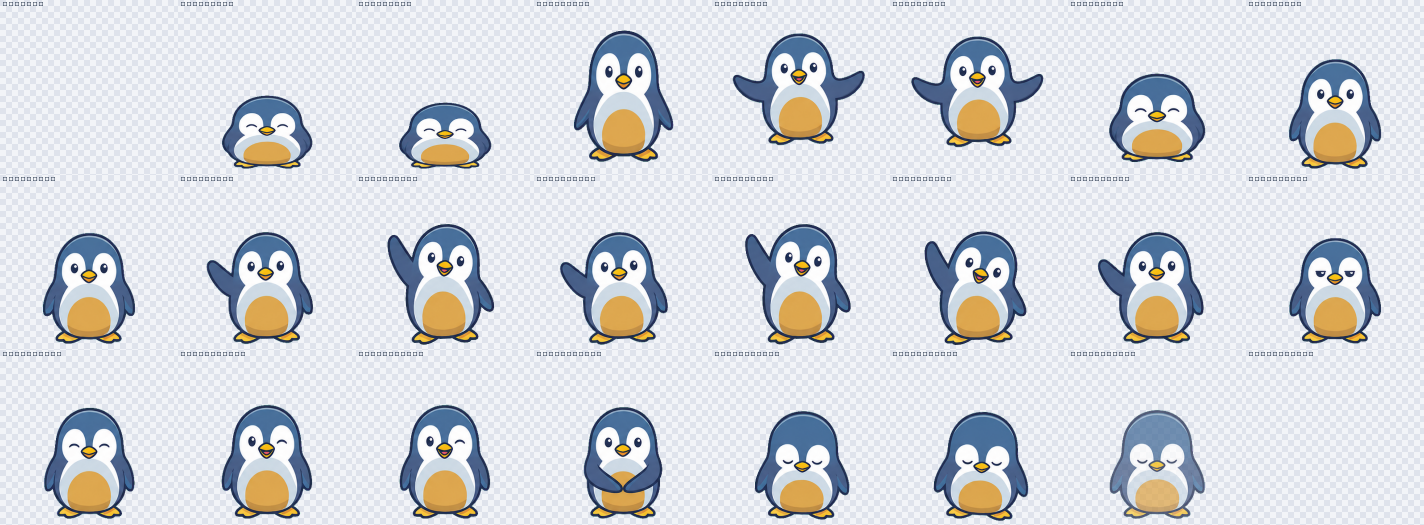
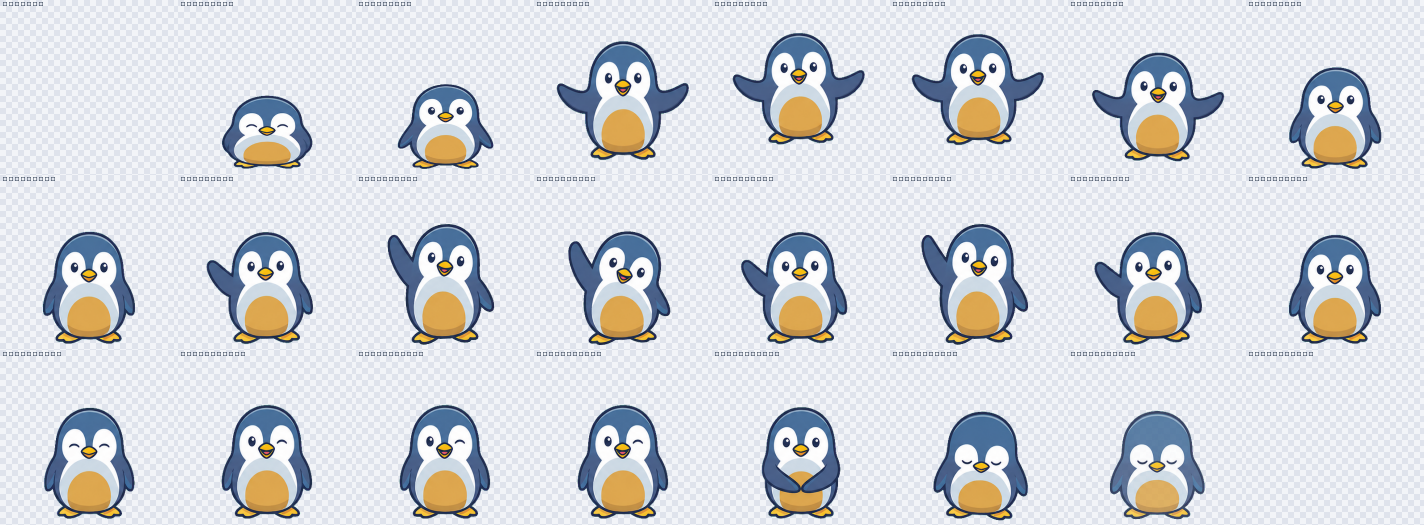
tune(intro): adopt timing B - apex hold, readable wink, calmer wave
GIF로 A/B를 비교해 B를 채택했다. 공중 정점에 60ms 머물러 체공감을 주고, 윙크를 130→250ms 로 늘려 표정이 읽히게 하고, 손 흔들기를 컷당 90~110ms 로 완화했다. 늘어난 시간은 마무리 구간에서 회수해 총 2410ms. 컷 길이는 정지 시트로 판단할 수 없어 design_preview/render_intro_gif.py 로 실제 속도 GIF를 만들어 정했고, 세 값이 되돌아가지 않도록 테스트를 걸었다.

diff --git a/design_preview/render_intro_gif.py b/design_preview/render_intro_gif.py
@@ -1,0 +1,99 @@
+"""인트로를 애니메이션 GIF로 렌더링해 실제 속도로 확인한다.
+
+    py design_preview/render_intro_gif.py
+
+`design_preview/intro_preview.gif` 가 생성된다(git에는 넣지 않는다).
+정지 컷 시트(`verify_intro.py`)로는 컷 길이를 볼 수 없어서, 타이밍을 손볼 때는
+이 GIF로 판단한다.
+
+GIF는 알파가 1비트라 배경을 밝은 회색으로 합성한다. 실제 앱에서는 투명 창에
+그려지므로 배경 없이 캐릭터만 보인다.
+"""
+
+import io
+import os
+import sys
+from pathlib import Path
+
+os.environ.setdefault("QT_QPA_PLATFORM", "offscreen")
+
+ROOT = Path(__file__).resolve().parents[1]
+sys.path.insert(0, str(ROOT))
+
+from PIL import Image  # noqa: E402
+from PyQt6.QtCore import QBuffer, QByteArray, Qt  # noqa: E402
+from PyQt6.QtGui import QColor, QPixmap  # noqa: E402
+from PyQt6.QtWidgets import QApplication  # noqa: E402
+
+import intro_animation  # noqa: E402
+
+STEP_MS = 40           # 25fps. GIF 지연은 10ms 단위로 양자화된다.
+BACKGROUND = "#eef1f6"
+TAIL_MS = 240          # 끝난 뒤 잠깐 빈 화면을 남겨 반복 경계를 알아보게 한다
+SCALE = 0.7            # 파일 크기를 줄이기 위한 표시 축소
+PALETTE_COLORS = 64    # 평면 벡터 그림이라 64색으로도 티가 안 난다
+
+
+def to_pil(pixmap: QPixmap) -> Image.Image:
+    if SCALE != 1.0:
+        pixmap = pixmap.scaled(
+            int(pixmap.width() * SCALE), int(pixmap.height() * SCALE),
+            Qt.AspectRatioMode.KeepAspectRatio,
+            Qt.TransformationMode.SmoothTransformation)
+    data = QByteArray()
+    buffer = QBuffer(data)
+    buffer.open(QBuffer.OpenModeFlag.WriteOnly)
+    pixmap.save(buffer, "PNG")
+    buffer.close()
+    return Image.open(io.BytesIO(bytes(data))).convert("RGB")
+
+
+def render_sequence(timeline):
+    """타임라인을 STEP_MS 간격으로 렌더링해 PIL 프레임 목록을 만든다."""
+    splash = intro_animation.create_intro(timeline=timeline)
+    if splash is None:
+        raise SystemExit("인트로 자원을 찾지 못했습니다. py tools/build_intro_frames.py 먼저.")
+    total = intro_animation.total_duration_ms(timeline)
+    frames = []
+    for elapsed in range(0, total + TAIL_MS + 1, STEP_MS):
+        splash._state = intro_animation.state_at(min(elapsed, total), timeline)
+        tile = QPixmap(splash.size())
+        tile.fill(QColor(BACKGROUND))
+        splash.render(tile)
+        frames.append(to_pil(tile))
+    splash.close()
+    return frames, total
+
+
+def save_gif(path: Path, frames):
+    # 팔레트는 여러 시점을 이어 붙인 이미지에서 뽑는다. 첫 프레임은 등장 전
+    # 빈 화면이라 그것만으로 팔레트를 만들면 배경색 하나로 뭉개진다.
+    stride = max(1, len(frames) // 8)
+    samples = frames[::stride] or [frames[0]]
+    width, height = frames[0].size
+    strip = Image.new("RGB", (width * len(samples), height))
+    for index, frame in enumerate(samples):
+        strip.paste(frame, (index * width, 0))
+    palette = strip.quantize(colors=PALETTE_COLORS, method=Image.Quantize.MEDIANCUT)
+
+    converted = [frame.quantize(palette=palette, dither=Image.Dither.NONE)
+                 for frame in frames]
+    converted[0].save(str(path), save_all=True, append_images=converted[1:],
+                      duration=STEP_MS, loop=0, optimize=True)
+    print(f"저장: {path} ({path.stat().st_size / 1024:.0f}KB)")
+
+
+def main():
+    # QApplication 참조를 붙잡아 둬야 한다. 임시 객체로 두면 GC 되어
+    # 렌더링 중에 프로세스가 그대로 죽는다.
+    app = QApplication.instance() or QApplication([])
+    frames, total = render_sequence(intro_animation.TIMELINE)
+    save_gif(ROOT / "design_preview" / "intro_preview.gif", frames)
+    print(f"총 {total}ms, 컷 {len(intro_animation.TIMELINE)}개, "
+          f"{len(frames)}프레임({STEP_MS}ms 간격)")
+    app.processEvents()
+    return 0
+
+
+if __name__ == "__main__":
+    sys.exit(main())

diff --git a/intro_animation.py b/intro_animation.py
@@ -63,46 +63,53 @@ def _step(frame, duration, scale=(1.0, 1.0), squash=(1.0, 1.0), dy=(0.0, 0.0),
 #   1 웅크림 · 2 도약(날개 아래) · 3 날개 활짝 · 4 중립 · 5 날개 45°
 #   6 날개 최대 + 벌린 입 · 7 날개 최대 + 손끝 꺾임 · 8 반쯤 감은 눈
 #   9 감은 눈 · 10 윙크 · 11 날개 모음 · 12 인사
+#
+# 컷 길이는 A/B 비교(`design_preview/render_intro_gif.py`) 후 고른 값이다.
+#   * 공중 정점에 60ms 머문다. 상승/하강만 두면 정점이 스쳐 체공감이 없다.
+#   * 윙크는 250ms 유지한다. 130ms 로는 표정이 읽히기 전에 지나간다.
+#   * 손 흔들기는 컷당 90~110ms. 80ms 이하는 급하게 보인다.
 TIMELINE = (
     # 등장: 웅크린 자세로 나타나 더 깊게 눌린다(도약 예비 동작).
-    _step(1, 110, scale=(0.92, 0.94), squash=(0.90, 0.84), opacity=(0.0, 1.0),
+    _step(1, 100, scale=(0.92, 0.94), squash=(0.90, 0.84), opacity=(0.0, 1.0),
           easing="out_quad"),
     _step(1, 110, scale=(0.94, 0.96), squash=(0.84, 0.74), easing="in_out_quad"),
     # 도약: 몸이 늘어나며 떠오른다.
-    _step(2, 110, scale=(0.96, 1.0), squash=(0.74, 1.12), dy=(0.0, -0.06),
+    _step(2, 100, scale=(0.96, 1.0), squash=(0.74, 1.12), dy=(0.0, -0.06),
           easing="out_quad"),
-    # 공중: 날개를 펼치고 정점까지 올라간 뒤 떨어진다.
-    _step(3, 130, squash=(1.08, 1.0), dy=(-0.06, -0.20), rot=(0.0, -2.0),
+    # 공중: 날개를 펼치고 정점까지 올라가 잠깐 머문 뒤 떨어진다.
+    _step(3, 150, squash=(1.08, 1.0), dy=(-0.06, -0.20), rot=(0.0, -2.0),
           easing="out_cubic"),
-    _step(3, 120, squash=(1.0, 0.98), dy=(-0.20, -0.06), rot=(-2.0, 1.0),
+    _step(3, 60, dy=(-0.20, -0.19), rot=(-2.0, -1.0), easing="linear"),
+    _step(3, 110, squash=(1.0, 0.98), dy=(-0.19, -0.06), rot=(-1.0, 1.0),
           easing="in_quad"),
     # 착지: 눌렸다가 반동으로 살짝 늘어난 뒤 정착한다.
-    _step(1, 90, squash=(0.98, 0.80), dy=(-0.06, 0.0), easing="in_quad"),
+    _step(1, 80, squash=(0.98, 0.80), dy=(-0.06, 0.0), easing="in_quad"),
     _step(4, 110, squash=(0.80, 1.06), rot=(1.0, 0.0), easing="out_cubic"),
-    _step(4, 80, squash=(1.06, 1.0), easing="out_quad"),
+    _step(4, 60, squash=(1.06, 1.0), easing="out_quad"),
     # 손 흔들기 1회차: 45° → 최대 → 손끝 꺾임 → 내려옴.
     _step(5, 90, rot=(0.0, -1.5), easing="out_quad"),
-    _step(6, 90, rot=(-1.5, -3.0), easing="out_quad"),
-    _step(7, 80, rot=(-3.0, -3.5), easing="linear"),
-    _step(5, 80, rot=(-3.5, -1.0), easing="out_quad"),
+    _step(6, 110, rot=(-1.5, -3.0), easing="out_quad"),
+    _step(7, 90, rot=(-3.0, -3.5), easing="linear"),
+    _step(5, 90, rot=(-3.5, -1.0), easing="out_quad"),
     # 2회차.
-    _step(6, 90, rot=(-1.0, -3.0), easing="out_quad"),
-    _step(7, 80, rot=(-3.0, -3.5), easing="linear"),
+    _step(6, 110, rot=(-1.0, -3.0), easing="out_quad"),
+    _step(7, 90, rot=(-3.0, -3.5), easing="linear"),
     _step(5, 90, rot=(-3.5, 0.0), easing="out_quad"),
-    _step(4, 60),
+    _step(4, 50),
     # 눈 깜빡임(반쯤 → 완전 → 반쯤)과 윙크.
-    _step(8, 60, easing="linear"),
-    _step(9, 90, easing="linear"),
-    _step(8, 60, easing="linear"),
-    _step(10, 130),
+    _step(8, 50, easing="linear"),
+    _step(9, 80, easing="linear"),
+    _step(8, 50, easing="linear"),
+    _step(10, 250),
     # 마무리: 날개를 모으고 고개를 숙여 인사한 뒤 사라진다.
-    _step(11, 140, squash=(1.0, 0.99)),
-    _step(12, 150, rot=(0.0, 3.0), dy=(0.0, 0.01), easing="out_quad"),
-    _step(12, 200, scale=(1.0, 1.03), dy=(0.01, -0.02), opacity=(1.0, 0.0),
+    _step(11, 100, squash=(1.0, 0.99)),
+    _step(12, 120, rot=(0.0, 3.0), dy=(0.0, 0.01), easing="out_quad"),
+    _step(12, 160, scale=(1.0, 1.03), dy=(0.01, -0.02), opacity=(1.0, 0.0),
           easing="in_quad"),
 )
 
 FrameState = namedtuple("FrameState", "frame scale_x scale_y dy rotation opacity done")
+
 
 
 def _ease(name, t):

diff --git a/tests/test_intro_animation.py b/tests/test_intro_animation.py
@@ -139,6 +139,46 @@ class TimelineTests(unittest.TestCase):
             self.assertIn(step.frame, range(1, intro_animation.FRAME_COUNT + 1))
             self.assertGreater(step.duration, 0)
 
+    def test_alternate_timelines_are_playable(self):
+        """타임라인을 갈아 끼워도 재생 불변식이 유지되는지(다른 컷 길이로) 확인한다."""
+        faster = tuple(step._replace(duration=max(20, step.duration // 2))
+                       for step in intro_animation.TIMELINE)
+        for name, timeline in (("current", intro_animation.TIMELINE),
+                               ("halved", faster)):
+            with self.subTest(timeline=name):
+                total = intro_animation.total_duration_ms(timeline)
+                self.assertGreater(total, 0)
+                self.assertEqual({step.frame for step in timeline},
+                                 set(range(1, intro_animation.FRAME_COUNT + 1)))
+                start = intro_animation.state_at(0, timeline)
+                end = intro_animation.state_at(total, timeline)
+                self.assertAlmostEqual(start.opacity, 0.0, places=6)
+                self.assertAlmostEqual(end.opacity, 0.0, places=6)
+                self.assertTrue(end.done)
+                dys = [intro_animation.state_at(t, timeline).dy
+                       for t in range(0, total, 5)]
+                self.assertLess(min(dys), -0.15, "점프가 없습니다.")
+
+    def test_apex_is_held_for_a_beat(self):
+        """정점을 스치듯 지나가면 체공감이 없다. 정점 부근에 머무는 컷이 있어야 한다."""
+        total = intro_animation.total_duration_ms()
+        samples = [intro_animation.state_at(t).dy for t in range(0, total, 10)]
+        apex = min(samples)
+        near_apex = [dy for dy in samples if dy <= apex + 0.02]
+        self.assertGreaterEqual(len(near_apex) * 10, 100,
+                                f"정점 유지가 너무 짧습니다: {len(near_apex) * 10}ms")
+
+    def test_wink_is_held_long_enough_to_read(self):
+        """표정은 200ms 이상 머물러야 눈에 읽힌다."""
+        wink = sum(step.duration for step in intro_animation.TIMELINE
+                   if step.frame == 10)
+        self.assertGreaterEqual(wink, 200, f"윙크가 너무 짧습니다: {wink}ms")
+
+    def test_wave_cuts_are_not_rushed(self):
+        waves = [step.duration for step in intro_animation.TIMELINE
+                 if step.frame in (5, 6, 7)]
+        self.assertGreaterEqual(min(waves), 90, f"웨이브 컷이 급합니다: {waves}")
+
     def test_manifest_and_module_agree_on_frame_count(self):
         manifest = json.loads((FRAMES_DIR / "manifest.json").read_text(encoding="utf-8"))
         self.assertEqual(manifest.get("frame_count"), intro_animation.FRAME_COUNT)

diff --git a/magnifier.py b/magnifier.py
@@ -36,7 +36,7 @@ from capture_overlay import CaptureOverlay
 
 # 앱 버전. 창 제목/브랜드 배지/AppUserModelID/빌드 산출물 이름이 모두 이 값을
 # 따른다. 이전에는 문자열이 흩어져 있어 한쪽만 올라가는 일이 있었다.
-APP_VERSION = "2.52"
+APP_VERSION = "2.53"
 APP_NAME = "펭구 줌인"
 
 # Set explicit AppUserModelID on Windows to fix Taskbar Icon grouping and display issues
@@ -2998,7 +2998,7 @@ class SettingsModal(QDialog):
         display_body.addWidget(self.chk_show_intro)
 
         intro_hint = QLabel(
-            "앱이 켜질 때 펭구가 2.3초 동안 점프해 인사합니다. 다음 실행부터 "
+            "앱이 켜질 때 펭구가 2.4초 동안 점프해 인사합니다. 다음 실행부터 "
             "적용되고, 재생 중 클릭이나 ESC로 건너뛸 수 있습니다.")
         intro_hint.setObjectName("Hint")
         intro_hint.setWordWrap(True)
